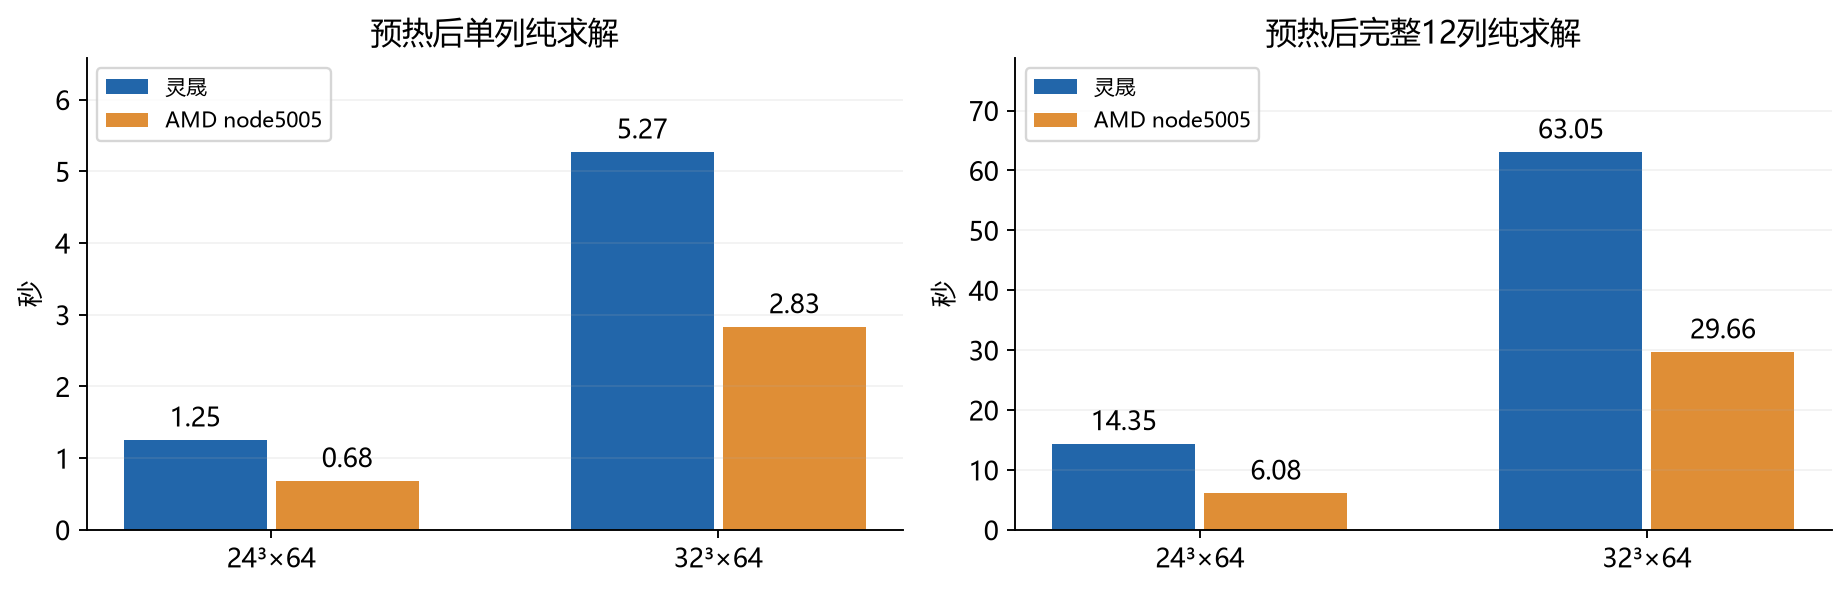
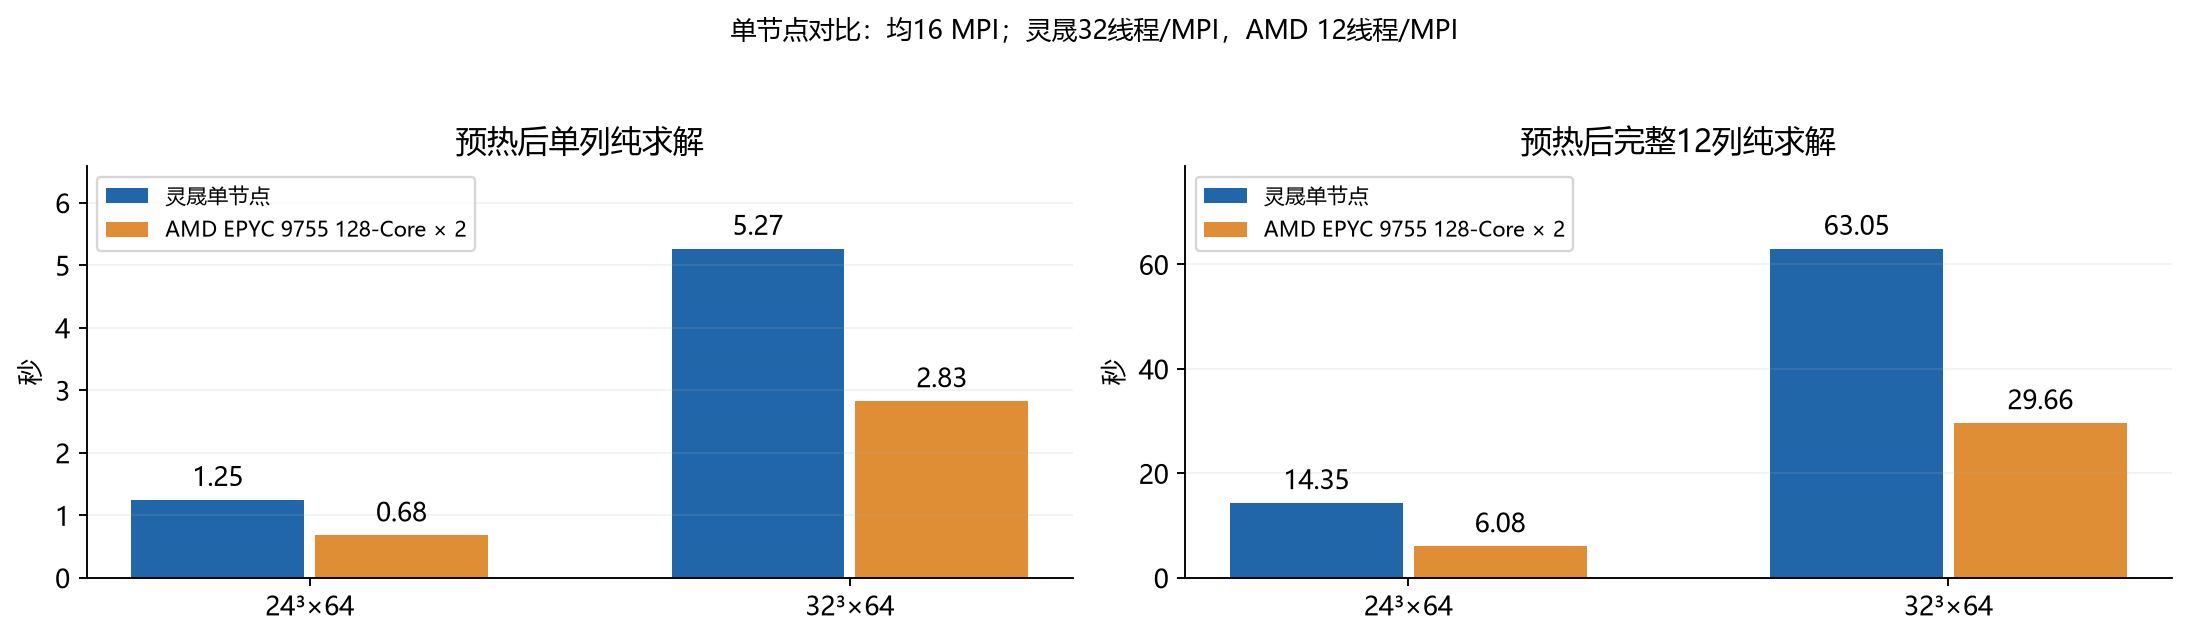
Clarify completion status, hardware labels and LingSheng node capacity

diff --git a/docs/灵晟测试报告.md b/docs/灵晟测试报告.md
@@ -1,23 +1,26 @@
 # 灵晟测试报告
 
-**用途：申请多节点资源开展大格点 LQCD 传播子求解测试。** 数据截至2026年11月14日，整理日期2026年11月15日。
+**用途：申请多节点资源开展大格点 LQCD 传播子求解测试。** 求解数据截至2026年11月14日；硬件调度信息于2026年11月15日复核。
 
 ## 1. 项目与已完成工作
 
 GitHub：[**WanbaoLi/multigrid.cpp**](https://github.com/WanbaoLi/multigrid.cpp)。
 项目实现面向CPU的 Wilson–Clover 多重网格传播子求解，支持x86和灵晟ARM后端，保留独立标量程序进行精度验证。以下性能来自项目自研求解器。
 
-![计算流程](assets/lingsheng-report/workflow.png)
+![计算流程](https://raw.githubusercontent.com/WanbaoLi/multigrid.cpp/develop/docs/assets/lingsheng-report/workflow.png)
 
 | 灵晟开发与优化 | 当前状态 |
 |---|---|
-| Wilson–Clover半自旋投影/恢复、SVE向量核及寻址复用 | 已集成，实机验证 |
-| SAP块内偶奇Schur预条件、粗网格偶奇求解 | 生产路径使用 |
-| 每NUMA域一个MPI、OpenMP绑核、两列批量处理 | 单节点16 MPI，求解32线程/MPI |
-| MPI halo通信与内部计算重叠、批量归约 | 已实现；收益受格子切分和通信开销影响 |
-| KUPL高带宽热数据分配、页面驻留验证 | 已有成功分配与SDK验证记录 |
-| 单节点共享只读系数；多节点仅驻留本地数据和halo | 单节点C24/C32、多节点C24通过；C64建层尚未完成 |
-| basis手征零块压缩、释放建层临时数据、控制Krylov缓存 | 已进入多节点实验；halo页复用另存未验证实验分支 |
+| 实现Wilson–Clover半自旋投影/恢复、SVE向量核与寻址复用，并完成实机验证 | 已完成 |
+| 实现SAP块内偶奇Schur预条件、粗网格偶奇求解 | 已完成 |
+| 实现每NUMA域一个MPI的绑核方案：单节点16 MPI、求解32线程/MPI，按两列批量处理 | 已完成 |
+| 实现MPI halo通信与内部计算重叠、批量归约 | 已完成 |
+| 接入KUPL，对部分热数据进行HBW分配，并验证SDK分类及页面驻留 | 已完成 |
+| 共享单节点只读系数，完成24³×64、32³×64单列和12列精度及性能验证 | 已完成 |
+| 实现多节点本地数据/halo驻留、basis手征零块压缩、建层临时数据释放和Krylov缓存控制，完成两节点C24验证 | 已完成 |
+| 完成64³×128多节点建层及预热后1列、12列求解验证 | 未完成 |
+| 通过跨向量复用halo页进一步降低内存峰值（已有实验实现，尚未验证） | 未完成 |
+| 生成规范场：开发并验证生产用LQCD规范场生成流程 | 未完成 |
 
 ## 2. 当前性能与精度
 
@@ -25,16 +28,18 @@ GitHub：[**WanbaoLi/multigrid.cpp**](https://github.com/WanbaoLi/multigrid.cpp)
 
 | 平台 | 格子 | 单列纯求解/s | 12列纯求解/s | 12列API墙钟/s |
 |---|---|---:|---:|---:|
-| 灵晟 | 24³×64 | 1.250 | 14.348 | 14.853 |
-| 灵晟 | 32³×64 | 5.267 | 63.049 | 63.850 |
-| AMD node5005 | 24³×64 | 0.681 | 6.084 | 6.216 |
-| AMD node5005 | 32³×64 | 2.829 | 29.662 | 29.989 |
+| 灵晟单节点 | 24³×64 | 1.250 | 14.348 | 14.853 |
+| 灵晟单节点 | 32³×64 | 5.267 | 63.049 | 63.850 |
+| AMD EPYC 9755 128-Core × 2 | 24³×64 | 0.681 | 6.084 | 6.216 |
+| AMD EPYC 9755 128-Core × 2 | 32³×64 | 2.829 | 29.662 | 29.989 |
 
-![预热后求解性能](assets/lingsheng-report/performance.png)
+![预热后求解性能](https://raw.githubusercontent.com/WanbaoLi/multigrid.cpp/develop/docs/assets/lingsheng-report/performance.png)
 
 灵晟使用32求解线程/MPI，AMD使用12线程/MPI；这是各自现有配置的端到端对照，不能据此单独归因于CPU架构。单节点数据均通过单列及12列独立算子检查，灵晟最大独立残差低于4.9×10⁻⁹。灵晟C24/C32建层分别约224.6/487.8秒，建层可跨source复用。分块分别为6×6×6×4、8×8×8×4。
 
 ## 3. 当前限制与优化重点
+
+2026年11月15日复核灵晟计算节点cn12118的调度器信息：双路72F5、16个CPU NUMA域，608个物理核中592个可供应用使用；报告频率为2000 MHz。内存总量578560 MB，系统预留61440 MB，可供应用调度517120 MB，均保留调度器原单位。上述为节点配置读数，不是负载下持续频率、内存带宽或HBM容量实测。
 
 - **主频与控制开销：** 计算节点探针报告最高频率约2 GHz，尚无全核持续频率测量。小矩阵、间接寻址、归约和线程同步依赖单核效率，不能直接用整机峰值浮点算力推算求解时间。
 - **HBM使用范围：** KUPL已验证部分热数据进入HBW；当前自设预算为1 GiB/MPI，并非硬件容量上限，原始副本仍保留。C64两节点时每MPI的FP32 basis约2.25 GiB，超过该预算，无法整块放入当前热数据分配策略。尚无“全求解数据驻留HBM”或“带宽已打满”的证据。
@@ -43,7 +48,7 @@ GitHub：[**WanbaoLi/multigrid.cpp**](https://github.com/WanbaoLi/multigrid.cpp)
 
 ## 4. 大格点内存与资源申请
 
-![格点与输出容量增长](assets/lingsheng-report/volume.png)
+![格点与输出容量增长](https://raw.githubusercontent.com/WanbaoLi/multigrid.cpp/develop/docs/assets/lingsheng-report/volume.png)
 
 64³×128的格点总量是24³×64的约37.9倍。仅FP64的12列传播子输出就需全局72 GiB；此外还需要规范场、Clover、粗化basis、24个建层向量、Krylov缓存和MPI边界区。传输的薄面元素少，不等于其分块布局触及的驻留页少。
 
@@ -51,7 +56,7 @@ GitHub：[**WanbaoLi/multigrid.cpp**](https://github.com/WanbaoLi/multigrid.cpp)
 
 容量预测采用：**预计每节点内存＝已测每节点内存×新旧格点总量之比×原节点数/新节点数**。它只作资源规划；实际halo、分块、缓存和建层峰值会改变比例。
 
-![多节点内存预测](assets/lingsheng-report/memory.png)
+![多节点内存预测](https://raw.githubusercontent.com/WanbaoLi/multigrid.cpp/develop/docs/assets/lingsheng-report/memory.png)
 
 **本次申请：4个整节点，每节点16 MPI、每MPI 32线程；每节点预留480000 MB内存，首轮墙钟4小时。** 对应64 MPI、2048个计算线程，整节点计费CPU配额约2432（当前限制1216）。采用时间拓扑1×1×1×64、本地格点64³×2、聚合块8×8×8×2。当前均匀时间切分下，3节点的48 MPI不能整除时间长度128，下一档可行配置为4节点。
 
